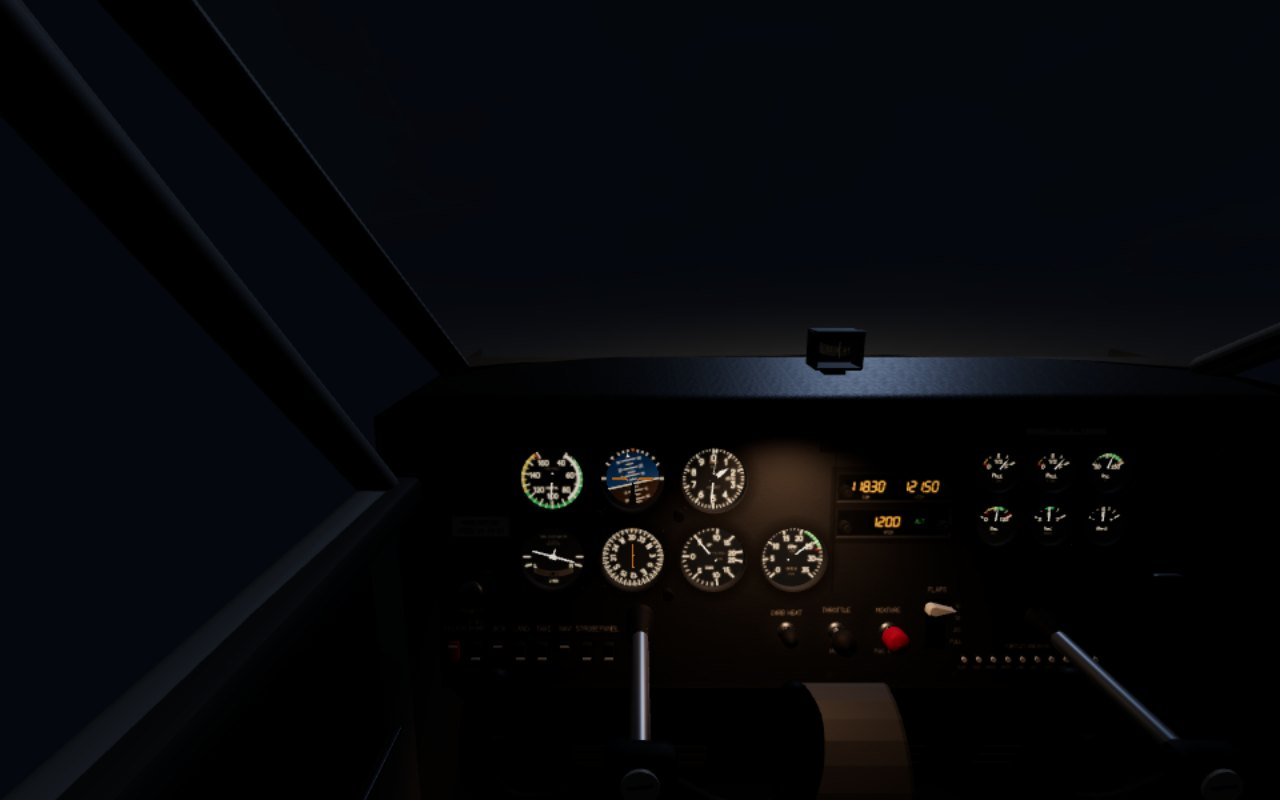
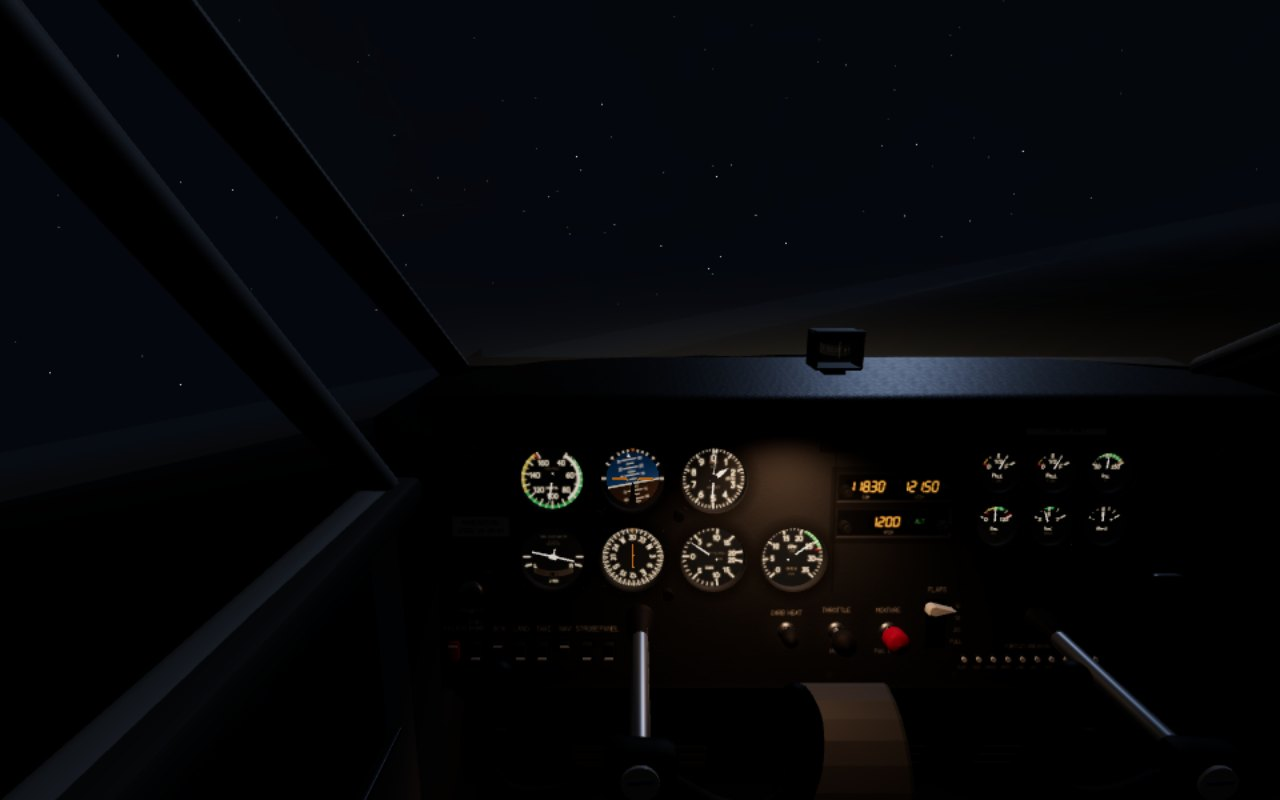
駕駛艙展示：修正夜間窗外全黑（純色背景在第二次繪圖時會清掉畫面）；星星改用最小像素大小的光點
Claude-Session: https://claude.ai/code/session_01UvvFTAxhyaiyMHuUfTidx6

diff --git a/src/flight/world.js b/src/flight/world.js
@@ -10,6 +10,7 @@ import { buildCockpit } from './cockpit.js';
 import { COCKPIT_TIERS } from './materials.js';
 import { createFlightState } from './state.js';
 import { HeadLook } from './look.js';
+import { lightPoints } from './lights.js';
 import { fbmField, rng } from './tex.js';
 import { landMap, fieldTile, groundMaterial } from './terrain.js';
 
@@ -49,13 +50,13 @@ export class FlightWorld {
   buildSky() {
     const S = this.scene;
     this.sky = new THREE.Sky(); this.sky.scale.setScalar(30000); this.sky.material.fog = false; S.add(this.sky);
-    const R = rng(3), n = 1500, pos = new Float32Array(n * 3);
+    const R = rng(3), n = 1200, pos = [], col = [];
     for (let i = 0; i < n; i++) {
-      const th = R() * Math.PI * 2, ph = Math.acos(1 - (R() * 0.9 + 0.08));
-      pos.set([Math.sin(ph) * Math.cos(th), Math.cos(ph), Math.sin(ph) * Math.sin(th)].map((v) => v * 20000), i * 3);
+      const th = R() * Math.PI * 2, ph = Math.acos(1 - (R() * 0.9 + 0.08)), b = 0.25 + Math.pow(R(), 3) * 0.9, w = R();
+      pos.push(...[Math.sin(ph) * Math.cos(th), Math.cos(ph), Math.sin(ph) * Math.sin(th)].map((v) => v * 20000));
+      col.push(b * (0.85 + w * 0.15), b * 0.92, b * (1.1 - w * 0.2));
     }
-    const g = new THREE.BufferGeometry(); g.setAttribute('position', new THREE.BufferAttribute(pos, 3));
-    this.stars = new THREE.Points(g, new THREE.PointsMaterial({ color: 0xffffff, size: 2, sizeAttenuation: false, transparent: true, opacity: 0, depthWrite: false, fog: false }));
+    this.stars = lightPoints(pos, col, { px: 2.2, intensity: 0, fog: false });
     S.add(this.stars);
     this.hemi = new THREE.HemisphereLight(0xcfe6ff, 0x4a5a32, 1);
     this.sun = new THREE.DirectionalLight(0xffffff, 3);
@@ -94,7 +95,7 @@ export class FlightWorld {
     const night = name === 'night', dusk = name === 'dusk';
     this.sky.visible = !night;
     this.scene.background = night ? new THREE.Color(0x04070d) : null;
-    this.stars.material.opacity = night ? 0.9 : 0;
+    this.stars.material.uniforms.uIntensity.value = night ? 1 : 0;
     // 夜間：月光（冷色、很弱）當主光
     if (night) { this.sun.color.set(0x9fb4d8); this.sun.intensity = 0.35; this.hemi.color.set(0x23324a); this.hemi.groundColor.set(0x0b0d10); this.hemi.intensity = 0.35; }
     else {
@@ -179,7 +180,10 @@ export class FlightWorld {
     // 2) 駕駛艙（清掉深度再畫，近平面 1.5 公分）
     r.clearDepth();
     cam.near = 0.015; cam.far = 60; cam.layers.set(LAYER_COCKPIT); cam.updateProjectionMatrix();
+    // 背景是純色（夜間）時，three.js 每次 render 都會用背景色清畫面：第二次畫之前先拿掉，不然外面會被蓋掉
+    const bg = this.scene.background; this.scene.background = null;
     r.render(this.scene, cam);
+    this.scene.background = bg;
     cam.layers.enableAll();
   }
 

diff --git a/src/flight/lights.js b/src/flight/lights.js
@@ -1,0 +1,37 @@
+// 一群「光點」（跑道燈、星星）：每個光點是一個永遠面向鏡頭的小方塊，畫面上至少 px 像素大，
+// 所以很遠也看得到（GL 的 Points 在有些平板上最大只有 1 像素，不可靠）。一次 draw call 畫全部。
+import * as THREE from '../land/three.js';
+
+export function lightPoints(positions, colors, { px = 4, intensity = 1, fog = true } = {}) {
+  const base = new THREE.PlaneGeometry(1, 1);
+  const g = new THREE.InstancedBufferGeometry();
+  g.index = base.index; g.attributes.position = base.attributes.position;
+  g.setAttribute('offset', new THREE.InstancedBufferAttribute(new Float32Array(positions), 3));
+  g.setAttribute('icolor', new THREE.InstancedBufferAttribute(new Float32Array(colors), 3));
+  g.instanceCount = positions.length / 3;
+  const mat = new THREE.ShaderMaterial({
+    transparent: true, depthWrite: false, blending: THREE.AdditiveBlending, fog: false,
+    uniforms: { uPx: { value: px }, uViewport: { value: new THREE.Vector2(1280, 800) }, uIntensity: { value: intensity }, uFogFar: { value: fog ? 20000 : 1e9 } },
+    vertexShader: `
+      attribute vec3 offset; attribute vec3 icolor;
+      uniform float uPx; uniform vec2 uViewport; uniform float uFogFar;
+      varying vec3 vColor; varying vec2 vUv; varying float vFade;
+      void main() {
+        vec4 mv = modelViewMatrix * vec4(offset, 1.0);
+        vec4 clip = projectionMatrix * mv;
+        clip.xy += position.xy * uPx * 2.0 / uViewport * clip.w;
+        vColor = icolor; vUv = position.xy * 2.0; vFade = clamp(1.0 + mv.z / uFogFar, 0.0, 1.0);
+        gl_Position = clip;
+      }`,
+    fragmentShader: `
+      uniform float uIntensity; varying vec3 vColor; varying vec2 vUv; varying float vFade;
+      void main() {
+        float a = smoothstep(1.0, 0.15, length(vUv)) * vFade * uIntensity;
+        gl_FragColor = vec4(vColor * a, a);
+      }`,
+  });
+  const m = new THREE.Mesh(g, mat);
+  m.frustumCulled = false;
+  m.onBeforeRender = (r) => { r.getDrawingBufferSize(mat.uniforms.uViewport.value); };
+  return m;
+}
